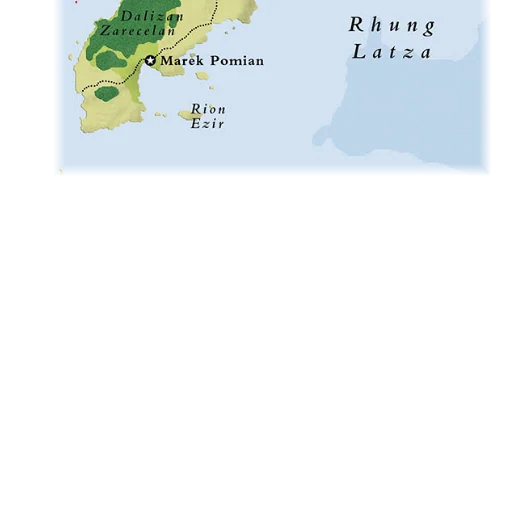
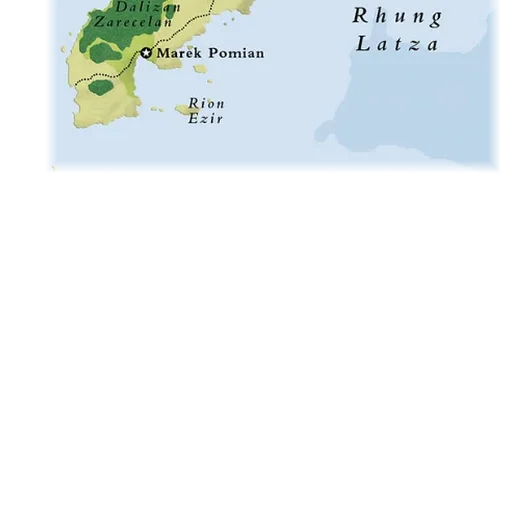
v1.29.2: scale Caserion up 4 % and move it north to fit the first map
Claude-Session: https://claude.ai/code/session_01JVATdQRTjHvh6ACghck5CM

diff --git a/tools/scale-layer-piece.py b/tools/scale-layer-piece.py
@@ -1,0 +1,123 @@
+#!/usr/bin/env python3
+"""
+Scales one piece (e.g. a small regional inset) of a map layer and moves it, without touching the rest of the layer.
+
+  python3 tools/scale-layer-piece.py <tiles folder> <layer id> <x> <y> <w> <h> <scale> <dx> <dy>
+
+ - scale: 1.04 makes the piece 4 % larger. It is scaled about its own top left corner (the corner of what is not
+   see-through), then that corner is moved by dx dy.
+ - x y w h: the piece's box in full-size pixels (zoom level 0; the map picture is 1/8 of that). Everything that is
+   not see-through inside the box moves; it must not touch another piece.
+ - dx dy: how far to move it, in full-size pixels (8 of them are one pixel of the map picture).
+Only the zoom pieces and the part of the map picture that the old and new boxes touch are rewritten
+(levels 2, 1, 0 and layers/<id>/map.webp), and manifest.json is updated.
+"""
+import json, os, sys
+import cv2, numpy as np
+from PIL import Image
+
+Image.MAX_IMAGE_PIXELS = None
+tiles, lid = sys.argv[1].rstrip("/") + "/", sys.argv[2]
+X, Y, W, H = (int(float(v)) for v in sys.argv[3:7])
+SC = float(sys.argv[7]); DX, DY = (int(float(v)) for v in sys.argv[8:10])
+man = json.load(open(tiles + "manifest.json"))
+TS = man["tileSize"]
+layer = next(l for l in man["layers"] if l["id"] == lid)
+base = tiles + "layers/" + lid + "/"
+rect = layer["map"]
+G = TS * 4                                         # region grid: one level-2 piece, so every level lines up
+
+# the region that changes: old and new box, grown to the grid
+NW, NH = int(W * SC) + 4, int(H * SC) + 4
+x0 = min(X, X + DX) - 8; y0 = min(Y, Y + DY) - 8
+x1 = max(X + W, X + DX + NW) + 8; y1 = max(Y + H, Y + DY + NH) + 8
+rx0, ry0 = x0 // G * G, y0 // G * G
+rx1, ry1 = -(-x1 // G) * G, -(-y1 // G) * G
+CW, CH = rx1 - rx0, ry1 - ry0
+canvas = np.zeros((CH, CW, 4), np.uint8)
+for k in layer["tiles"].get("0", []):
+    tx, ty = map(int, k.split("_"))
+    if tx * TS < rx1 and (tx + 1) * TS > rx0 and ty * TS < ry1 and (ty + 1) * TS > ry0:
+        t = np.asarray(Image.open(base + "0/" + k + ".webp").convert("RGBA"))
+        canvas[ty * TS - ry0:(ty + 1) * TS - ry0, tx * TS - rx0:(tx + 1) * TS - rx0] = t
+
+# cut the piece out, scale it and put it down again
+box = (slice(Y - ry0, Y - ry0 + H), slice(X - rx0, X - rx0 + W))
+piece = canvas[box].copy()
+al = piece[..., 3] > 0
+if not al.any():
+    sys.exit("nothing in that box")
+ys, xs = np.where(al)
+cy, cx = ys.min(), xs.min()                          # top left corner of what is drawn
+canvas[box] = 0
+P = piece.astype(np.float32); P[..., :3] *= P[..., 3:4] / 255.0       # premultiplied, so edges do not get dark
+P = P[cy:ys.max() + 1, cx:xs.max() + 1]
+P = cv2.resize(P, (round(P.shape[1] * SC), round(P.shape[0] * SC)), interpolation=cv2.INTER_LANCZOS4)
+P = np.clip(P, 0, 255)
+ph, pw = P.shape[:2]
+oy, ox = Y + cy + DY - ry0, X + cx + DX - rx0
+if oy < 0 or ox < 0 or oy + ph > canvas.shape[0] or ox + pw > canvas.shape[1]:
+    sys.exit("the scaled piece does not fit the working area")
+dest = canvas[oy:oy + ph, ox:ox + pw]
+if dest[..., 3].max() > 0:
+    sys.exit("the new place is not empty (another piece is there)")
+a_ = P[..., 3:4]
+rgb = np.where(a_ > 0.5, P[..., :3] * 255.0 / np.maximum(a_, 0.5), 0)
+canvas[oy:oy + ph, ox:ox + pw] = np.dstack([np.clip(rgb, 0, 255), np.clip(a_[..., 0], 0, 255)]).round().astype(np.uint8)
+
+
+def premult(a):
+    f = a.astype(np.float32); f[..., :3] *= f[..., 3:4] / 255.0; return f
+
+
+def unpremult(f):
+    a = f[..., 3:4]
+    rgb = np.where(a > 0.5, f[..., :3] * 255.0 / np.maximum(a, 0.5), 0)
+    return Image.fromarray(np.dstack([np.clip(rgb, 0, 255), np.clip(a, 0, 255)]).round().astype(np.uint8), "RGBA")
+
+
+P0 = premult(canvas)
+changed = [(X, Y, X + W, Y + H), (X + DX, Y + DY, X + DX + NW, Y + DY + NH)]
+for lvl in (0, 1, 2):
+    f = 2 ** lvl
+    C = P0 if lvl == 0 else cv2.resize(P0, (CW // f, CH // f), interpolation=cv2.INTER_AREA)
+    ox, oy = rx0 // f, ry0 // f
+    os.makedirs(base + str(lvl), exist_ok=True)
+    have = set(layer["tiles"].get(str(lvl), []))
+    touched = set()
+    for (a, b, c, d) in changed:
+        for ty in range(max(0, (b // f - 2) // TS), (d // f + 2) // TS + 1):
+            for tx in range(max(0, (a // f - 2) // TS), (c // f + 2) // TS + 1):
+                touched.add((tx, ty))
+    for tx, ty in sorted(touched):
+        sx, sy = tx * TS - ox, ty * TS - oy
+        if sx < 0 or sy < 0 or sx + TS > C.shape[1] or sy + TS > C.shape[0]:
+            continue
+        part = C[sy:sy + TS, sx:sx + TS]
+        key = f"{tx}_{ty}"
+        path = base + f"{lvl}/{key}.webp"
+        if part[..., 3].max() < 1:
+            if key in have:
+                have.discard(key)
+                if os.path.exists(path): os.remove(path)
+            continue
+        unpremult(part).save(path, "WEBP", quality=84, method=4)
+        have.add(key)
+    layer["tiles"][str(lvl)] = sorted(have, key=lambda s: tuple(map(int, s.split("_"))))
+    print("level", lvl, "pieces now", len(have))
+
+# the layer's part of the map picture: redo the parts under the old and new box
+patch = np.asarray(Image.open(base + "map.webp").convert("RGBA")).copy()
+C8 = cv2.resize(P0, (CW // 8, CH // 8), interpolation=cv2.INTER_AREA)
+img8 = np.asarray(unpremult(C8)).copy()
+for (a, b, c, d) in changed:
+    ax, ay, bx, by = a // 8 - 3, b // 8 - 3, -(-c // 8) + 3, -(-d // 8) + 3
+    for my in range(ay, by):
+        for mx in range(ax, bx):
+            px, py = mx - rect["x"], my - rect["y"]
+            ix, iy = mx - rx0 // 8, my - ry0 // 8
+            if 0 <= px < patch.shape[1] and 0 <= py < patch.shape[0] and 0 <= ix < img8.shape[1] and 0 <= iy < img8.shape[0]:
+                patch[py, px] = img8[iy, ix]
+Image.fromarray(patch, "RGBA").save(base + "map.webp", "WEBP", quality=86, method=4)
+json.dump(man, open(tiles + "manifest.json", "w"), ensure_ascii=False, separators=(",", ":"))
+print("scaled", (X, Y, W, H), "by", SC, "and moved by", (DX, DY))

diff --git a/CHANGELOG.md b/CHANGELOG.md
@@ -2,6 +2,10 @@
 
 Newest first. Versions from 1.x on are the combined app (Root and Rune + Weather generator).
 
+## v1.29.2 (combined app)
+Weather generator:
+- **Caserion fits the map better.** The Caserion part of the layer *Gordrion, Vambolien & Caserion* was drawn about 4 % smaller than the first Mundana map and sat a few pixels too far south, which is why the south fitted and the north drifted. It is now scaled up 4 % (the north and south halves gave the same scale when fitted) and moved so that its north edge is about 5 map pixels further north; the place names now fall on the first map's. New tool `tools/scale-layer-piece.py` (like `move-layer-piece.py`, with a scale).
+
 ## v1.29.1 (combined app)
 Root and Rune:
 - **Slower speech by default.** The speech engine's default speed goes from 140 to 105 words a minute. A language that has its own speed set (*Settings → Speech → Speed*, 60–400) keeps it; an empty field uses the default, or the parent language's speed.
